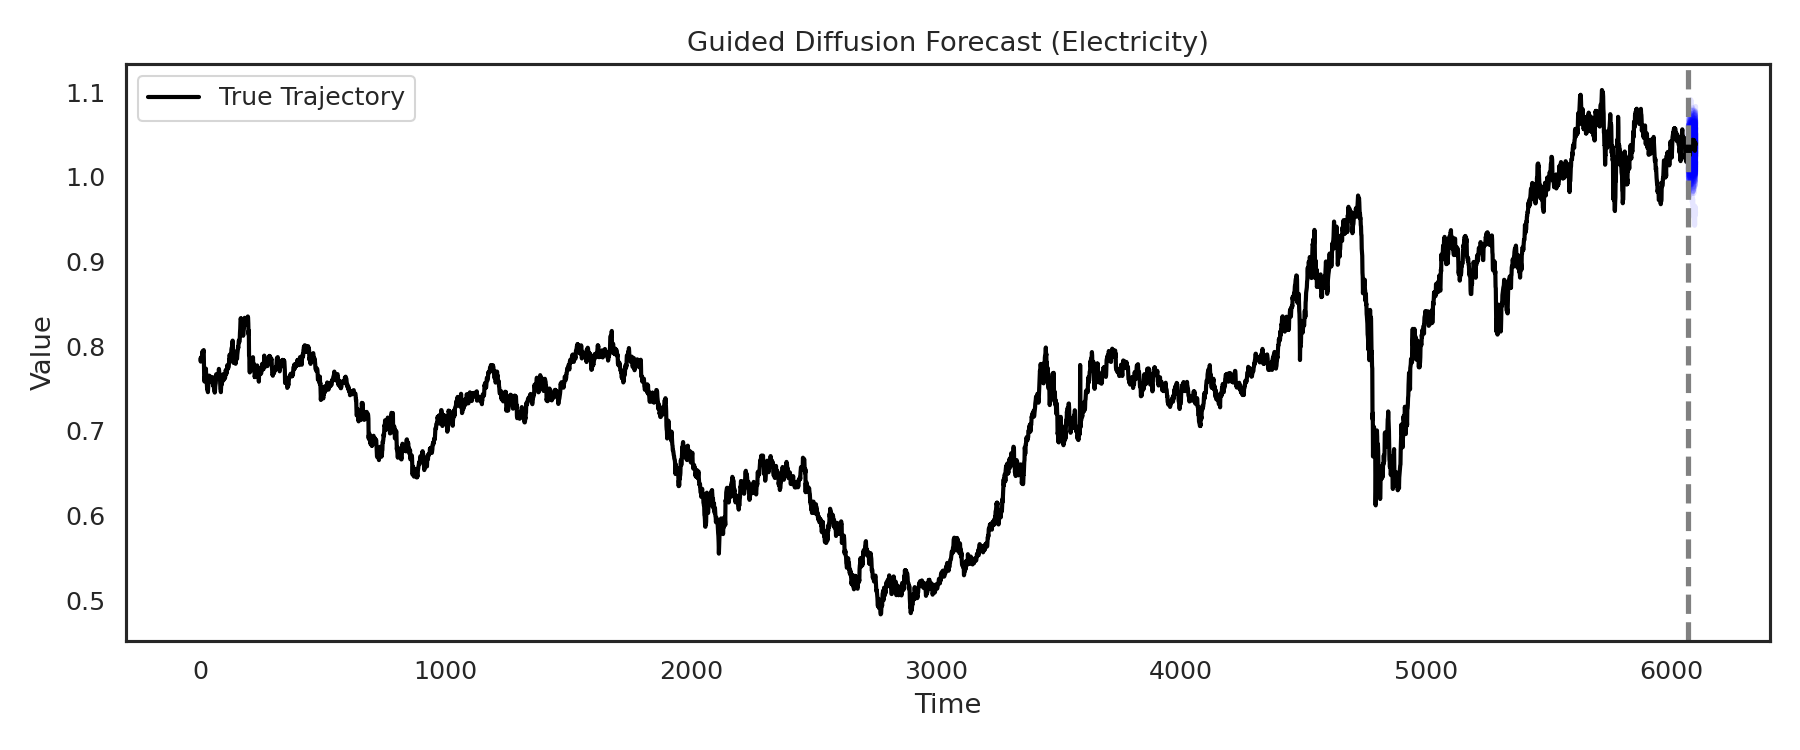
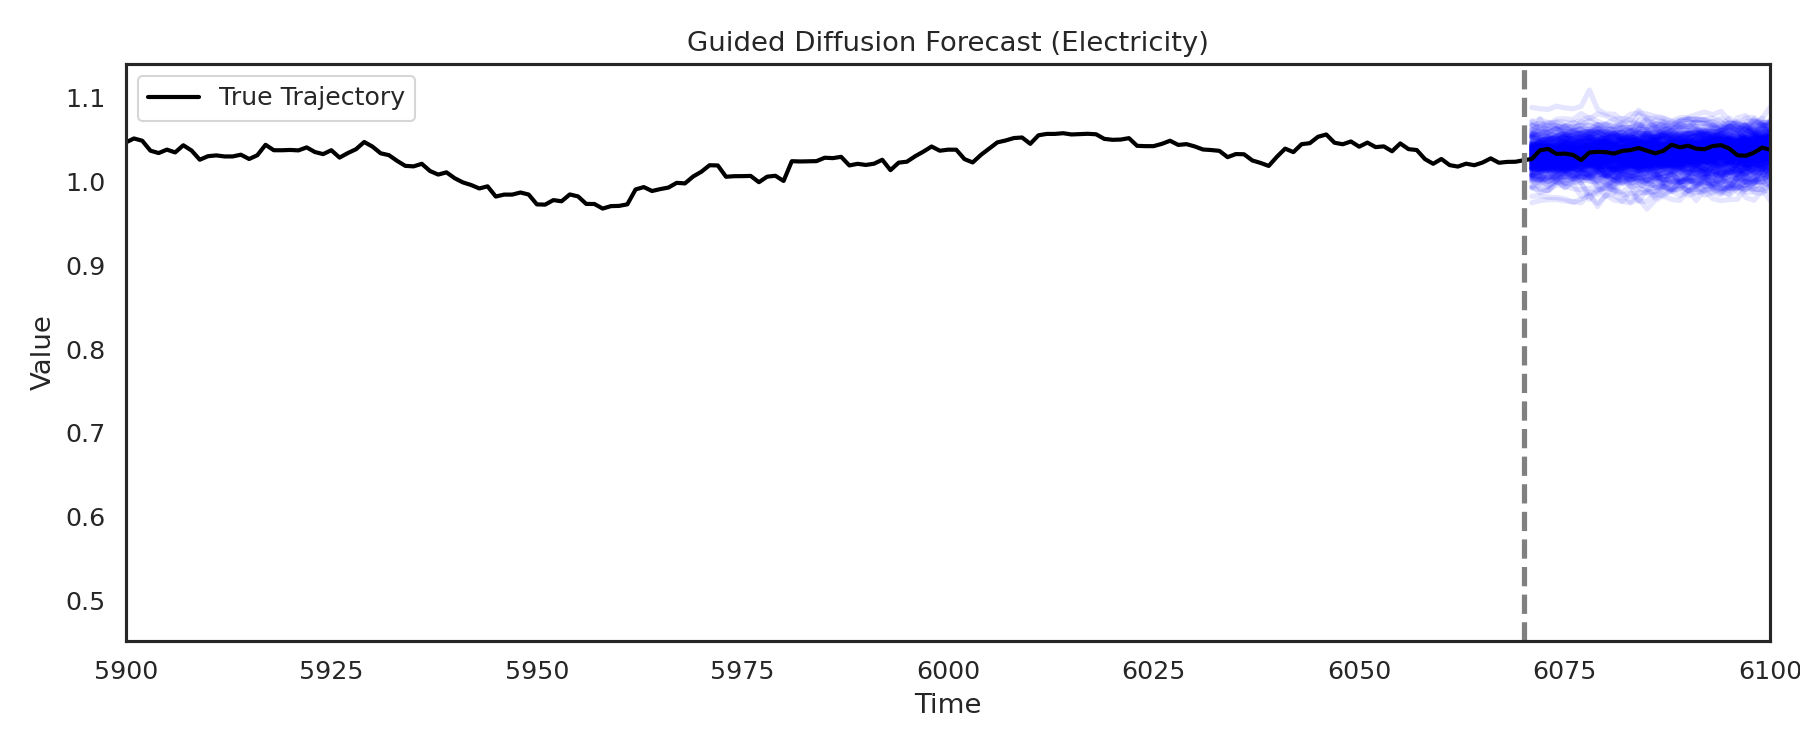
removed

diff --git a/forecast_exchange.py b/forecast_exchange.py
@@ -122,8 +122,8 @@ plt.title("Guided Diffusion Forecast (Exchange)")
 plt.xlabel("Time")
 plt.ylabel("Value")
 plt.legend()
-plt.ylim(-200, 250)
-plt.xlim(3900, 4000)
+#plt.ylim(-200, 250)
+plt.xlim(5900, 6100)
 plt.tight_layout()
 plt.savefig("exchange_forecast_ci90.png", dpi=150)
 plt.close()
